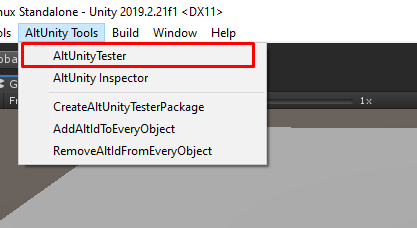
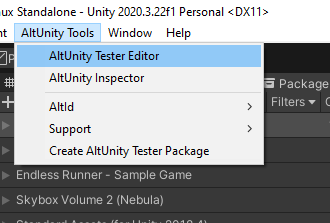
Resolve "[Get Started] "AltUnity Tester Window" or "AltUnity Tester" instead of "AltUnity Tester Editor""

diff --git a/docs/pages/get-started.md b/docs/pages/get-started.md
@@ -81,7 +81,7 @@ To instrument your Unity application with AltUnity Tester you first need to impo
 ```
 -->
 
-```important:: To make sure the import was correct, check if you can open AltUnity Tester Editor Window from Unity Editor -> AltUnity Tools -> AltUnityTester.
+```important:: To make sure the import was correct, check if you can open AltUnity Tester Editor window from Unity Editor -> AltUnity Tools -> AltUnity Tester Editor.
 
 ```
 
@@ -91,7 +91,7 @@ To instrument your Unity application with AltUnity Tester you first need to impo
 
 Steps:
 
-1. Open AltUnity Tester Editor window from Unity Editor -> AltUnity Tools -> AltUnityTester
+1. Open AltUnity Tester Editor window from Unity Editor -> AltUnity Tools -> AltUnity Tester Editor
  <!--2. In the Build Settings section set the **Proxy host** to the IP/hostname of the device where the Proxy is running. Set the **Proxy port** to the port configured in the Proxy. -->
 2. In the Build Settings section set **AltUnity Tester Port** to 13000
 3. In the Scene Manager section select the scenes you want to include in your build
@@ -146,13 +146,13 @@ Before running your tests you need to start the instrumented Unity application. 
 
     .. tab:: Unity Editor
 
-        1. Open AltUnity Tester Window
+        1. Open AltUnity Tester Editor
         2. In platform section select Editor
         3. Click Play in Editor
 
     .. tab:: PC
 
-        1. Open AltUnity Tester Window
+        1. Open AltUnity Tester Editor
         2. In platform section select Standalone
         3. Choose your build target
         4. Click Build & Run
@@ -171,7 +171,7 @@ Before running your tests you need to start the instrumented Unity application. 
 
         Steps:
 
-        1. Open AltUnity Tester Window
+        1. Open AltUnity Tester Editor
         2. In platform section select Android
         3. Click Build & Run
 
@@ -184,7 +184,7 @@ Before running your tests you need to start the instrumented Unity application. 
 
         Steps:
 
-        1. Open AltUnity Tester Window
+        1. Open AltUnity Tester Editor
         2. In platform section select iOS
         3. Click Build & Run
 
@@ -202,7 +202,7 @@ Before running your tests you need to start the instrumented Unity application. 
 
         Steps:
 
-        1. Open AltUnity Tester Window
+        1. Open AltUnity Tester Editor
         2. In platform section select WebGL
         3. Click Build & Run
  -->
@@ -224,7 +224,7 @@ AltUnity Tester package contains AltUnityDriver class used to connect to the ins
         1.  Create a folder named Editor in your Unity Project.
         2.  Right-click on Editor folder and select `Create -> AltUnityTest`. This will create a template file in which you could start to write your test.
         3.  Name the file MyFirstTest.
-        4.  Open AltUnity Tester Window.
+        4.  Open AltUnity Tester Editor.
         5.  In the `Run Tests` section press "Run All Tests" button. You should see the output of the tests in Unity Editor Console
 
         Example test file:

diff --git a/docs/pages/altunity-tester-editor.md b/docs/pages/altunity-tester-editor.md
@@ -1,6 +1,6 @@
 # AltUnity Tester Editor
 
-The GUI refers to the "AltUnityTesterEditor" window that is displayed when adding the altUnity Tester package in Unity.
+The GUI refers to the AltUnity Tester Editor window that is displayed when adding the AltUnity Tester package in Unity.
 
 ![Editor Window](../_static/images/altUnityTesterWindow/EditorWindow.png)
 
